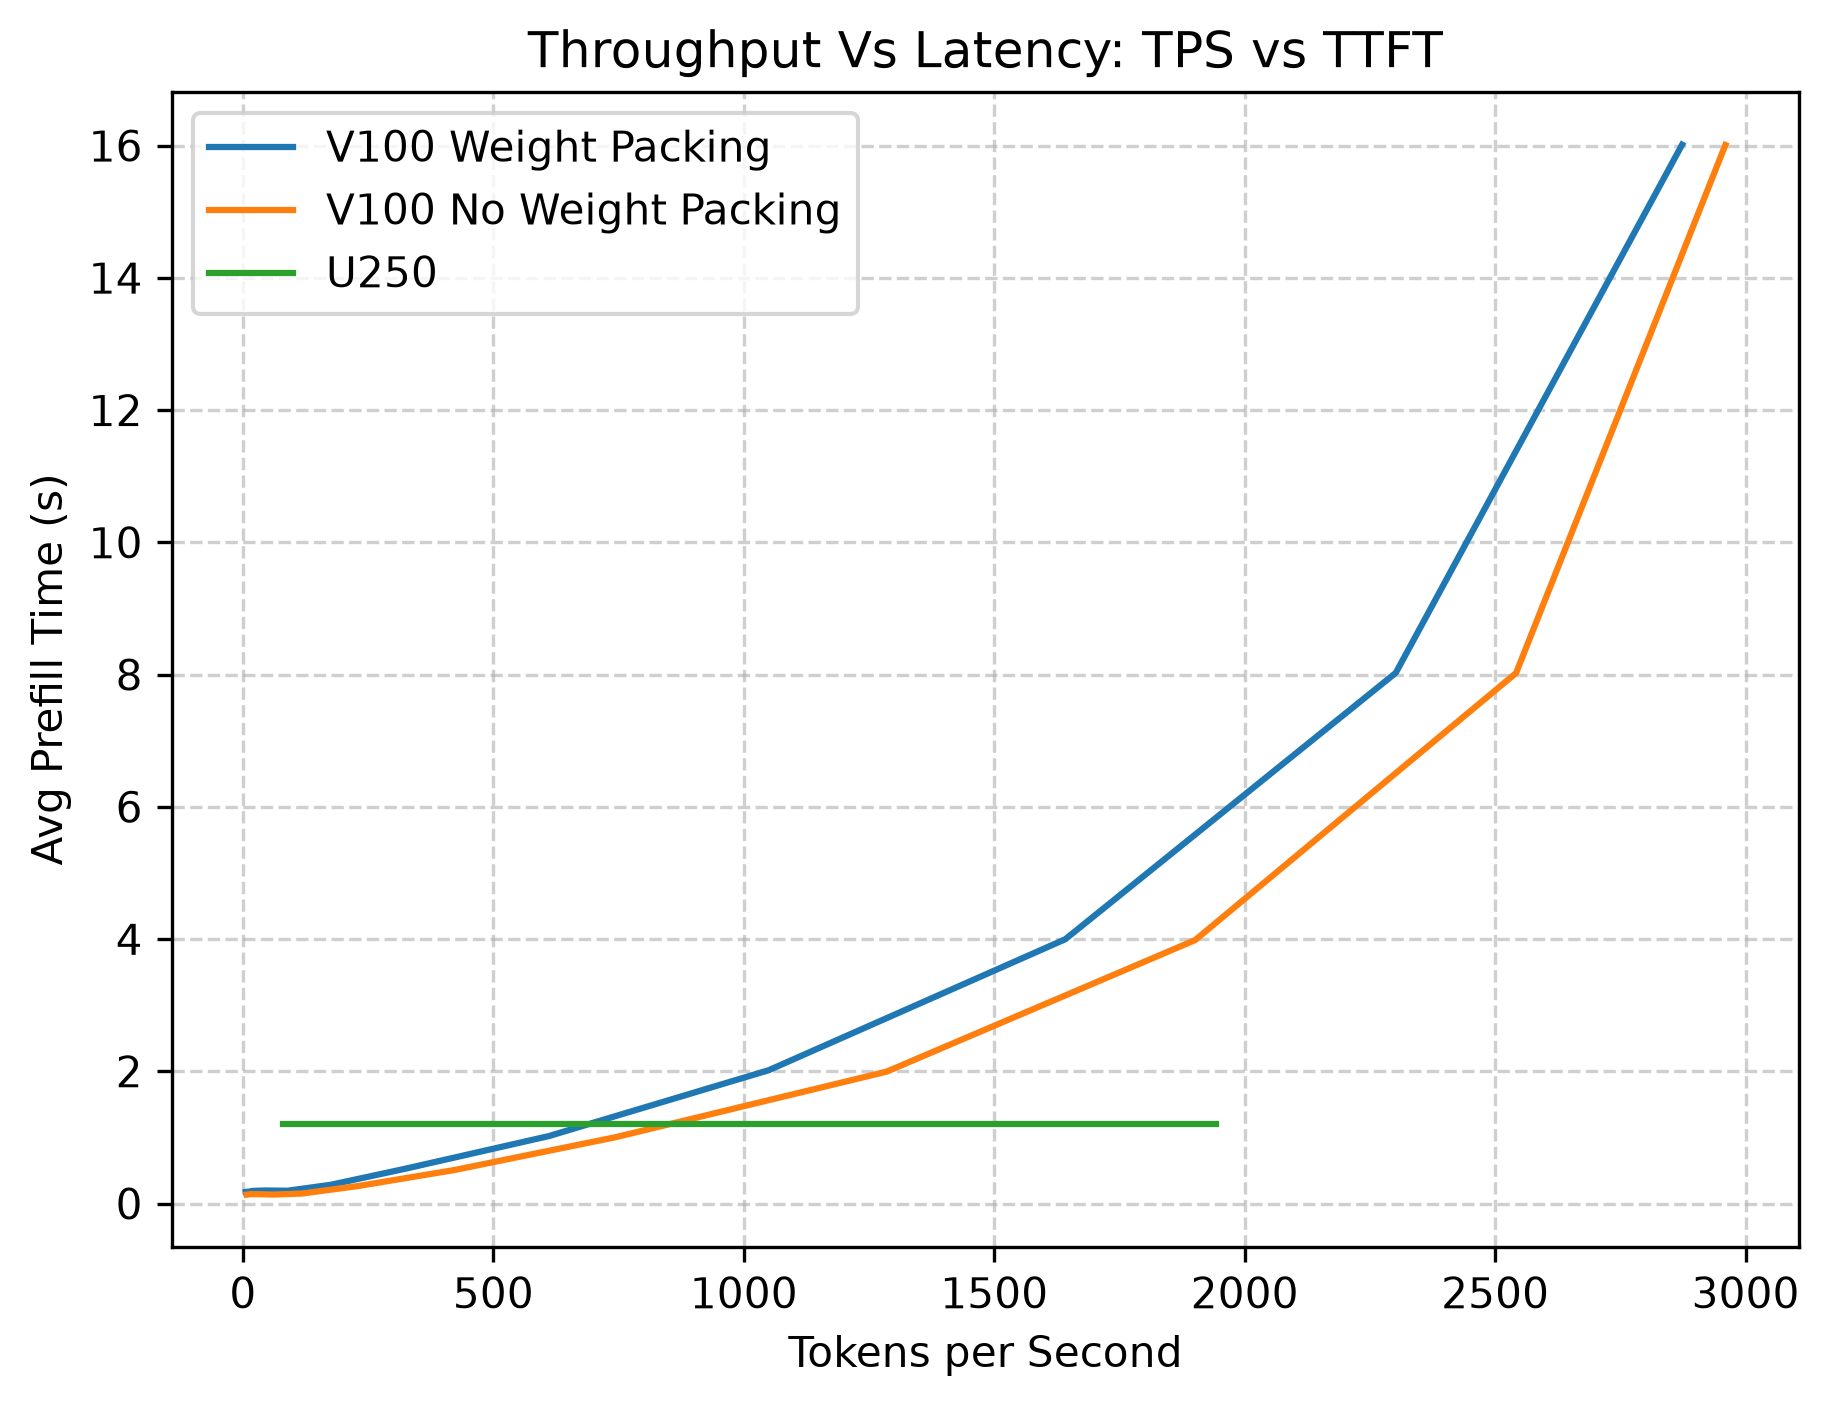
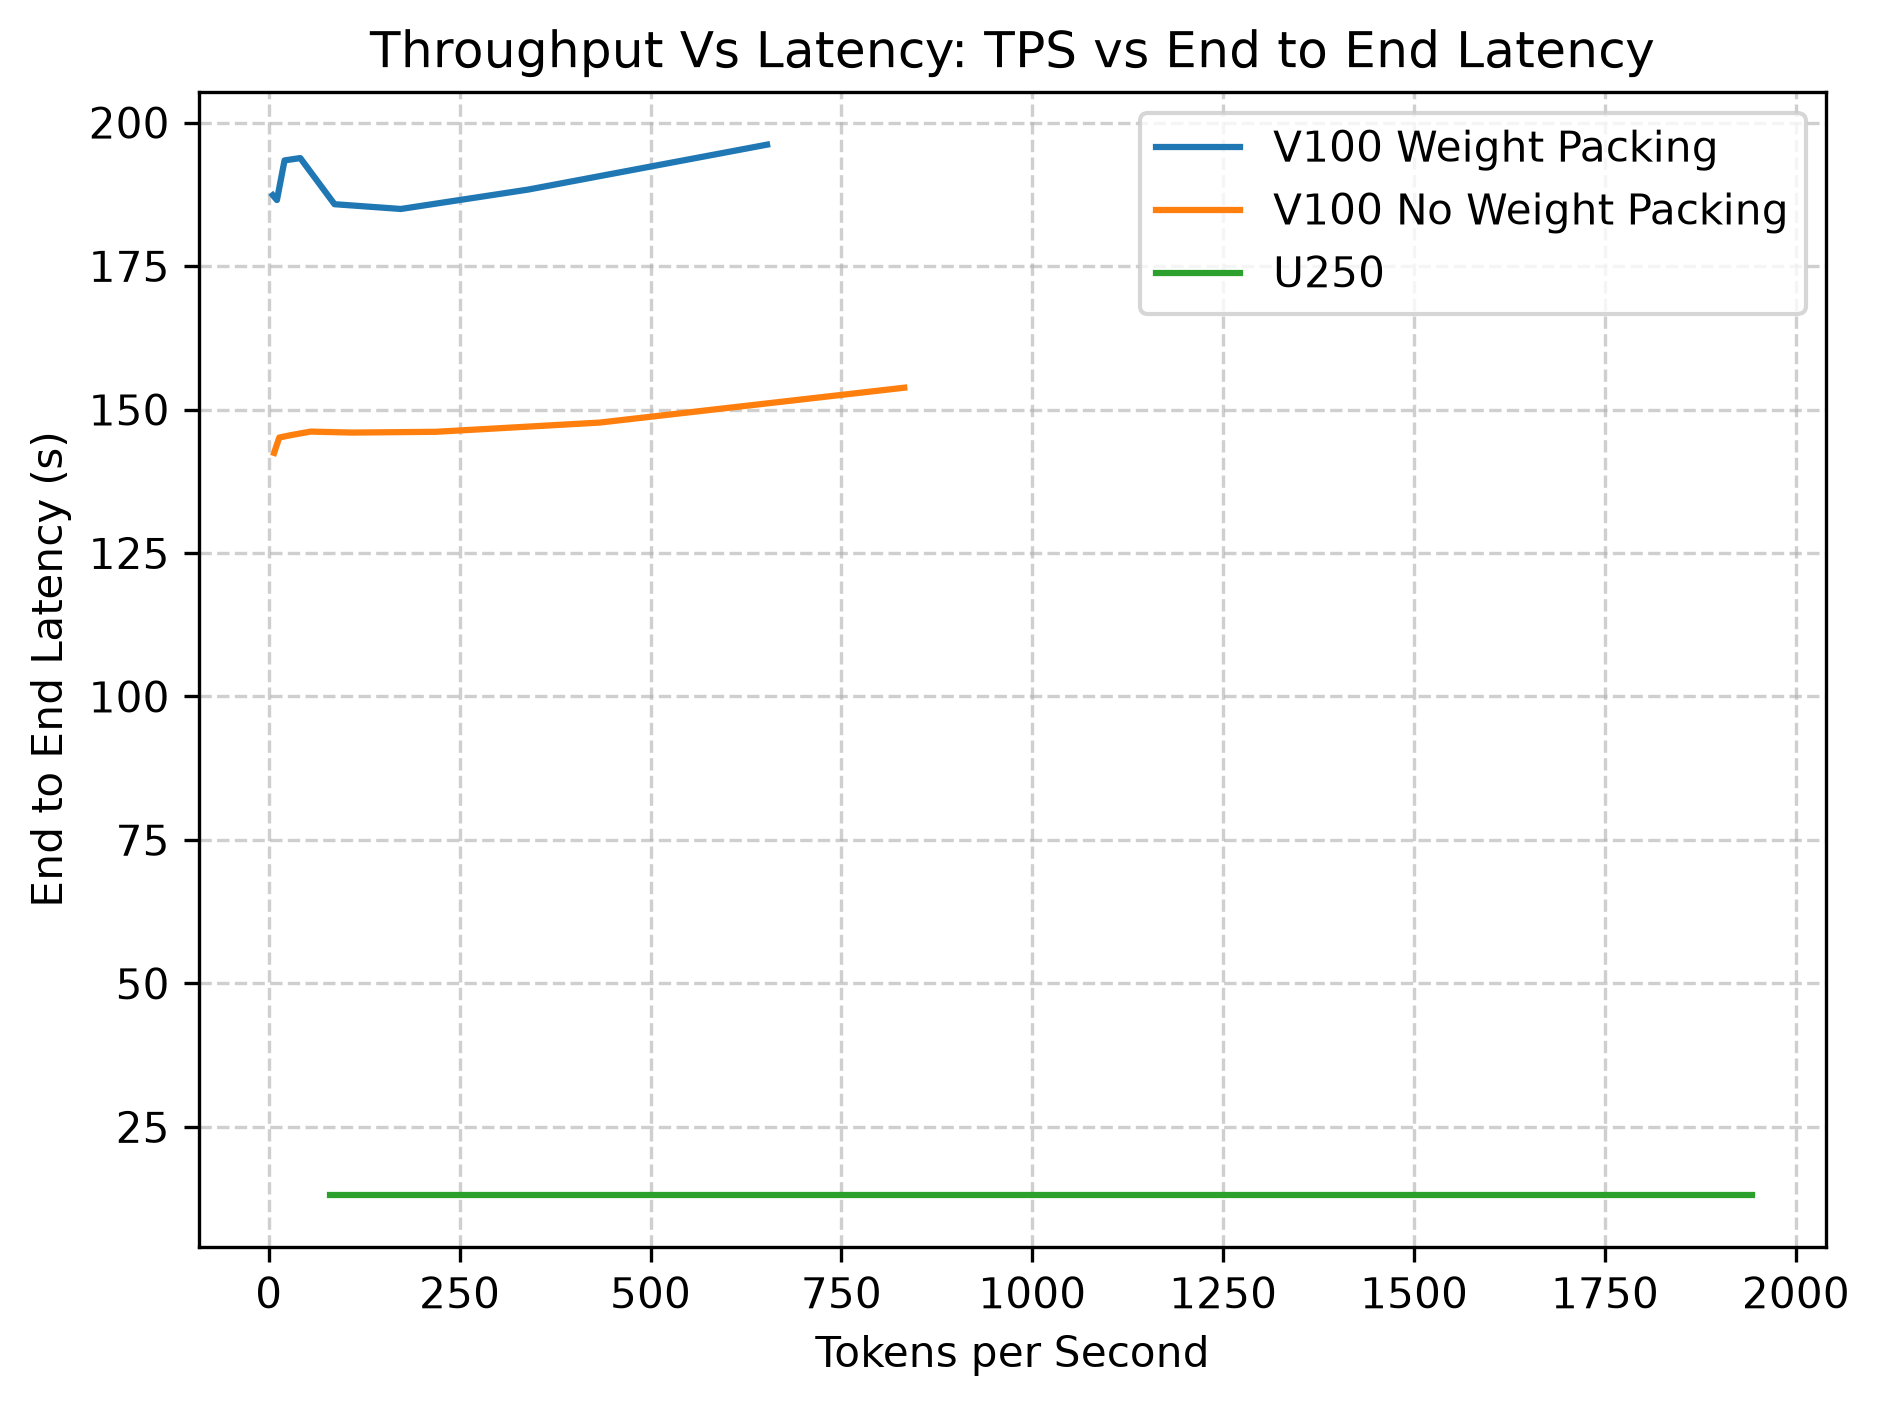
added bar chart graph

diff --git a/paper/paper_graphs.py b/paper/paper_graphs.py
@@ -9,11 +9,13 @@ from matplotlib.lines import Line2D   # only needed for a custom legend (optiona
 GPU_MATMUL_FILE = "paper_csv/mmfree.csv"
 GPU_BITNET_FILE = "paper_csv/bitnet.csv"
 FPGA_FILE = "paper_csv/fpga.csv"
+PROFILING_FILE = "paper_profiling/summary.csv"
 
 GPU_SCALED_MATMUL_FILE = "paper_csv/scaled_mmfree.csv"
 GPU_SCALED_BITNET_FILE = "paper_csv/scaled_bitnet.csv"
 
 TPS_COL = "tokens_per_second"
+AVG_RUNTIME = "run_time_seconds"
 MODEL_COL = "model"
 BS_COL = "batch size"
 PACKING_COL = "Weight Packing"
@@ -36,17 +38,18 @@ U250_DEVICE_ID = "U250"
 def get_col_from_df(df, hardware, model, val_col, packing=None): 
     df = df[(df[MODEL_COL] == model) & (df[DEVICE_COL] == hardware)]
     if packing is not None: 
+        df[PACKING_COL] = df[PACKING_COL].map({'CompressedType.FLOAT16': False, 'CompressedType.NAIVE': True})
         df = df[df[PACKING_COL] == packing]
     return df[val_col]
 
 def get_value_from_df(df, hardware, model, find_max, max_col, val_col, packing=None): 
     df = df[(df[MODEL_COL] == model) & (df[DEVICE_COL] == hardware)]
     if packing is not None: 
+        df[PACKING_COL] = df[PACKING_COL].map({'CompressedType.FLOAT16': False, 'CompressedType.NAIVE': True, True: True, False: False})
         df = df[df[PACKING_COL] == packing]
     return df.loc[df[max_col].idxmax()][val_col] if find_max else df.loc[df[max_col].idxmin()][val_col]
     
 def performance_barchart(matmul_gpu_df, bitnet_gpu_df, fpga_df):
-
     best_v100_matmul_packing_tps = get_value_from_df(matmul_gpu_df, V100_DEVICE_ID, RIDGER_MODEL_ID, True, TPS_COL, TPS_COL, packing=True)
     best_v100_matmul_packing_bs = get_value_from_df(matmul_gpu_df, V100_DEVICE_ID, RIDGER_MODEL_ID, True, TPS_COL, BS_COL, packing=True)
 
@@ -221,13 +224,13 @@ def scaled_performance_bar_chart(scaled_matmul_gpu_df, scaled_bitnet_gpu_df):
     print(f'✅ Scaled Performance Graphs saved to {out_path}')
 
 def latency_requirements(matmul_gpu_df, fpga_df): 
-    v100_packing_ttft = get_col_from_df(matmul_gpu_df, V100_DEVICE_ID, RIDGER_MODEL_ID, TTFT_COL, packing=True)
+    v100_packing_ttft = get_col_from_df(matmul_gpu_df, V100_DEVICE_ID, RIDGER_MODEL_ID, AVG_RUNTIME, packing=True)
     v100_packing_tps = get_col_from_df(matmul_gpu_df, V100_DEVICE_ID, RIDGER_MODEL_ID, TPS_COL, packing=True)
 
-    v100_no_packing_ttft = get_col_from_df(matmul_gpu_df, V100_DEVICE_ID, RIDGER_MODEL_ID, TTFT_COL, packing=False)
+    v100_no_packing_ttft = get_col_from_df(matmul_gpu_df, V100_DEVICE_ID, RIDGER_MODEL_ID, AVG_RUNTIME, packing=False)
     v100_no_packing_tps = get_col_from_df(matmul_gpu_df, V100_DEVICE_ID, RIDGER_MODEL_ID, TPS_COL, packing=False)
 
-    u250_ttft = get_col_from_df(fpga_df, U250_DEVICE_ID, RIDGER_MODEL_ID, TTFT_COL)
+    u250_ttft = get_col_from_df(fpga_df, U250_DEVICE_ID, RIDGER_MODEL_ID, AVG_RUNTIME)
     u250_tps = get_col_from_df(fpga_df, U250_DEVICE_ID, RIDGER_MODEL_ID, TPS_COL)
 
     fig, ax = plt.subplots(figsize=(7, 5))
@@ -236,14 +239,110 @@ def latency_requirements(matmul_gpu_df, fpga_df):
     ax.plot(u250_tps, u250_ttft, label = "U250")
 
     ax.set_xlabel('Tokens per Second')
-    ax.set_ylabel('Avg Prefill Time (s)')
-    ax.set_title('Throughput Vs Latency: TPS vs TTFT')
+    ax.set_ylabel('End to End Latency (s)')
+    ax.set_title('Throughput Vs Latency: TPS vs End to End Latency')
     ax.legend()
     ax.grid(True, linestyle='--', alpha=0.6)
     out_path="paper_graphs/latency_graph.png"
     fig.savefig(out_path, dpi=300, bbox_inches='tight')
     print(f'✅ Latency graph saved to {out_path}')
 
+
+def runtime_fraction(profiling_df):
+
+    # 2. Fill missing kernel times with 0
+    profiling_df = profiling_df.fillna(0)
+
+    # 3. Sort by model first, then batch size, so they are grouped together on the chart
+    profiling_df = profiling_df.sort_values(by=['model', 'batch size'])
+
+    # 4. Create a clean, grouped label for the X-axis
+    profiling_df['Config'] = profiling_df['model'] + '\n(BS: ' + profiling_df['batch size'].astype(str) + ')'
+
+    # 5. Define the non-overlapping sections of the workload
+    sections = [
+        'activation quantization runtime(ns)',
+        'ternary matmul runtime(ns)',
+        'post quantization processing runtime(ns)',
+        'unpack weights runtime(ns)'
+    ]
+
+    # 6. Calculate 'Other runtime' so the total equals exactly 100% of workload runtime
+    profiling_df['Other runtime(ns)'] = profiling_df['workload runtime(ns)'] - profiling_df[sections].sum(axis=1)
+    plot_columns = sections + ['Other runtime(ns)']
+
+    # 7. Convert absolute runtimes to percentages (fraction out of 100)
+    df_percentages = profiling_df[plot_columns].div(profiling_df['workload runtime(ns)'].values, axis=0) * 100
+
+    x_positions = []
+    x_ticks = []
+    x_tick_labels = []
+    current_x = 0
+
+    # Group by model to determine spacing
+    for model, group in profiling_df.groupby('model', sort=False):
+        group_size = len(group)
+        
+        # Place bars side-by-side for the current model
+        group_positions = [current_x + i for i in range(group_size)]
+        x_positions.extend(group_positions)
+        
+        # Center the model label under this group of bars
+        x_ticks.append(sum(group_positions) / group_size)
+        x_tick_labels.append(model)
+        
+        # Move the starting position for the next group (adding a gap of 1 unit)
+        current_x += group_size + 1
+
+    # 8. Plot the stacked bars manually to apply the custom spacing
+    fig, ax = plt.subplots(figsize=(14, 8))
+    colors = plt.cm.Set2.colors
+    bottom = np.zeros(len(profiling_df))
+
+    for i, col in enumerate(plot_columns):
+        color = colors[i % len(colors)]
+        ax.bar(
+            x_positions, 
+            df_percentages[col], 
+            bottom=bottom, 
+            label=col, 
+            color=color, 
+            edgecolor='black',
+            width=0.8
+        )
+        bottom += df_percentages[col]
+
+    # 9. Add Batch Size labels at the top of each bar
+    for x, bs in zip(x_positions, profiling_df['batch size']):
+        ax.text(
+            x=x, 
+            y=101, 
+            s=f'BS:{bs}', 
+            ha='center', 
+            va='bottom', 
+            fontsize=10, 
+            fontweight='bold'
+        )
+
+    # 10. Formatting
+    ax.set_xticks(x_ticks)
+    # Slight rotation ensures long model names don't overlap
+    ax.set_xticklabels(x_tick_labels, rotation=15, ha='right', fontsize=11)
+
+    plt.title('Workload Breakdown by Model (100% Stacked)', fontsize=16, pad=15)
+    plt.ylabel('Percentage of Total Workload (%)', fontsize=12)
+    plt.xlabel('Model', fontsize=12)
+    plt.ylim(0, 110)
+
+    # Move legend outside the plot
+    plt.legend(title='Workload Sections', bbox_to_anchor=(1.02, 1), loc='upper left')
+
+    # 11. Save the figure to a file
+    plt.savefig('grouped_workload_breakdown.png', dpi=300, bbox_inches='tight')
+
+    # Clear the plot from memory
+    plt.close()
+    
 def main(): 
     matmul_gpu_df = pd.read_csv(GPU_MATMUL_FILE)
     bitnet_gpu_df = pd.read_csv(GPU_BITNET_FILE)
@@ -252,9 +351,11 @@ def main():
     scaled_matmul_gpu_df = pd.read_csv(GPU_SCALED_MATMUL_FILE)
     scaled_bitnet_gpu_df = pd.read_csv(GPU_SCALED_BITNET_FILE)
 
+    profiling_df = pd.read_csv(PROFILING_FILE)
 
     performance_barchart(matmul_gpu_df, bitnet_gpu_df,fpga_df)
     latency_requirements(matmul_gpu_df, fpga_df)
     scaled_performance_bar_chart(scaled_matmul_gpu_df, scaled_bitnet_gpu_df)
+    runtime_fraction(profiling_df)
 if __name__ == "__main__":
     main()
